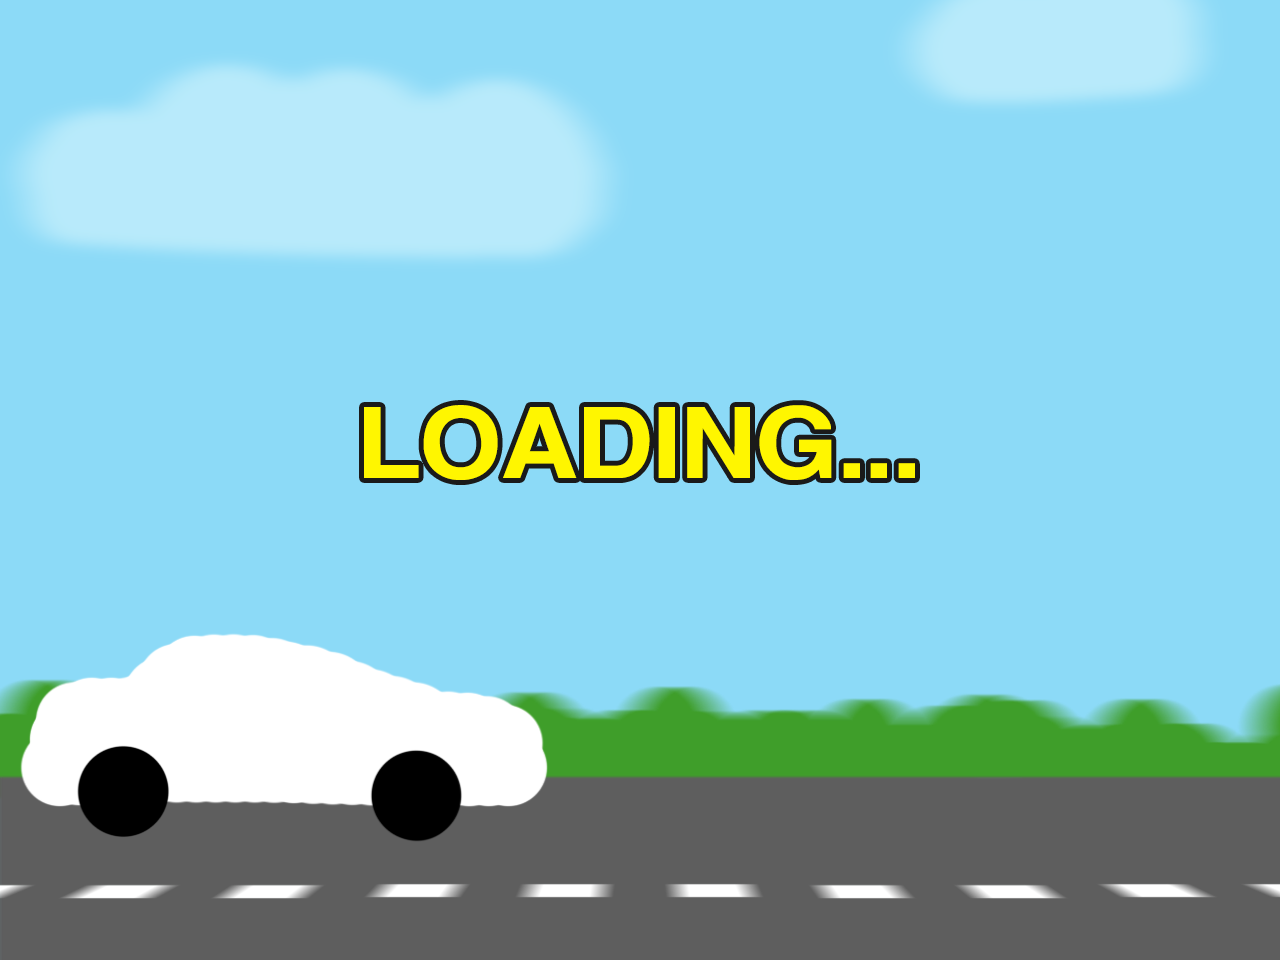
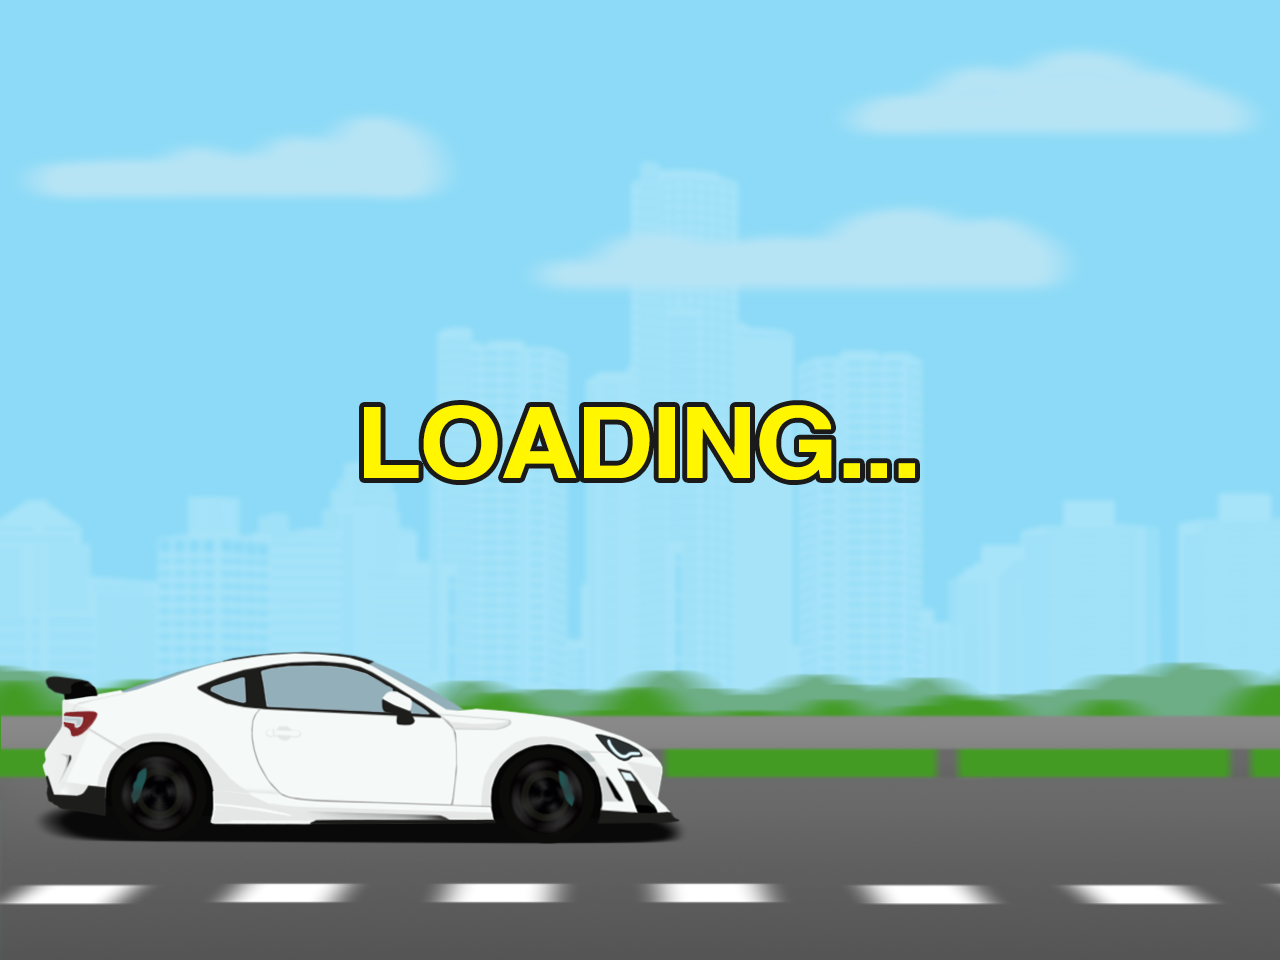
working credits screen + new loading screen assets

diff --git a/sketch.js b/sketch.js
@@ -83,7 +83,7 @@ function draw() {
       gameOver();
       break;
     case 'credits':
-      credits();
+      creditsScreen();
       break;
   }
 }
@@ -107,19 +107,25 @@ function keyReleased() {
       //value of time in miliseconds
       setTimeout(switchToGame2, 2500)
     }
-  } else if (gameState === 'title' || gameState === 'gameover') {
+  }
+  if (gameState === 'title' || gameState === 'gameover') {
     if (key === 'x' || key === 'X') {
       gameState = 'selection';
     }
-  } else if (gameState === 'gameover') {
+  }
+  if (gameState === 'gameover') {
     if (key === 'c' || key === 'C') {
       gameState = 'credits'
+    }
+  }
+  if (gameState === 'credits') {
+    if (key === 'x' || key === 'X') {
+      gameState = 'title'
     }
   }
 }
 
 function titleScreen() {
-
   background(220);
   image(menu, 0, 0, 0, 0);
   textAlign(CENTER);
@@ -363,8 +369,7 @@ function gameOver() {
   pop();
 }
 
-function credits() {
-  background(200);
+function creditsScreen() {
   image(credits, 0, 0, 0, 0);
 }
 
